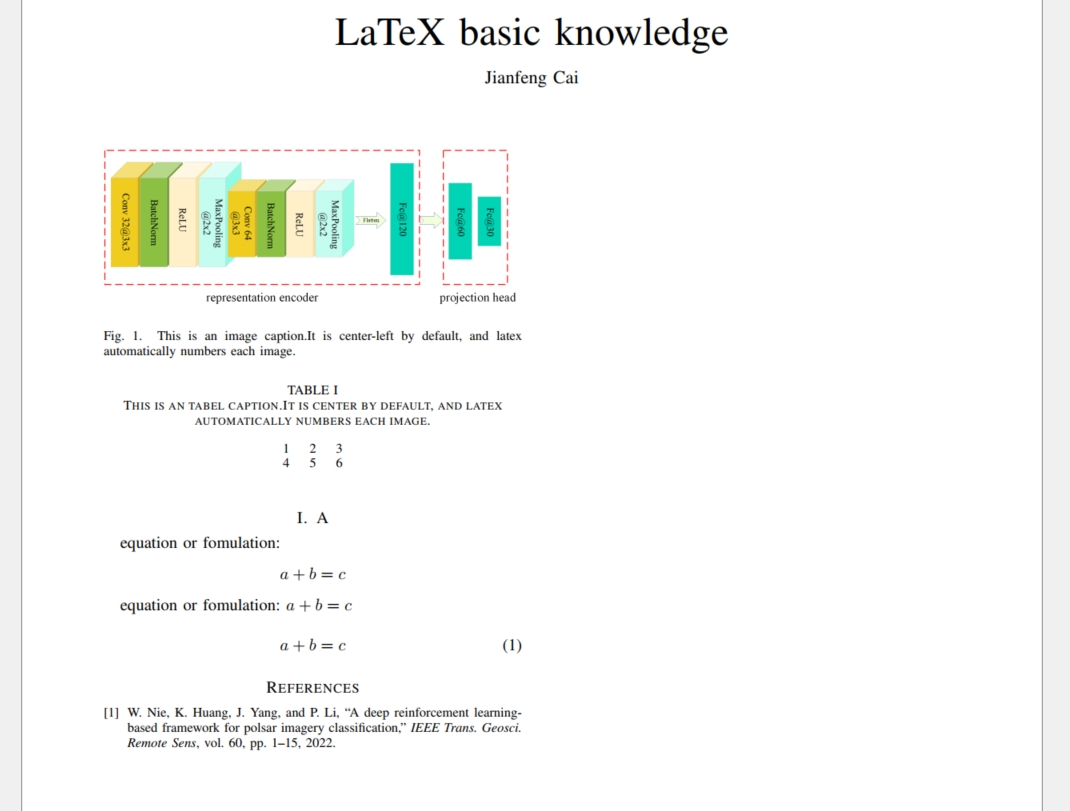
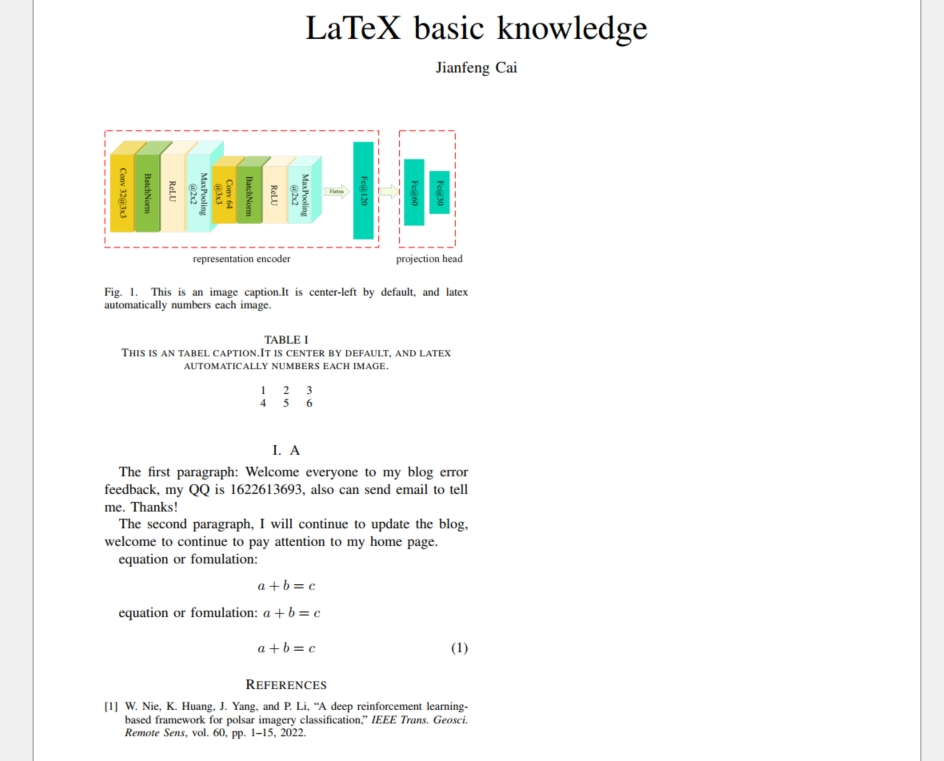
update blog latex

diff --git a/_posts/2023-10-22-blog-latex-basic.md b/_posts/2023-10-22-blog-latex-basic.md
@@ -47,7 +47,7 @@ Basic Application
 </pre>
 
 <p style="text-align:justify; text-justify:inter-ideograph;">对内容进行包裹。所有需要在论文中展示出来的部分都必须写在这里面。
-一篇论文中主要包括了标题、作者、章节、图表、公式、参考文献。下面将一一讲解它们的使用方式。</p>
+一篇论文中主要包括了标题、作者、章节、正文、图表、公式、参考文献。下面将一一讲解它们的使用方式。</p>
 
 <p style="text-align:justify; text-justify:inter-ideograph;">首先是标题，它使用代码函数 \title{标题}，而作者使用 \author{作者名}。
 在代码函数填写的内容中(即 {} 里的内容)，如果有多个需要填写，一般使用 , 分隔，例如对于多个作者，则使用 \author{作者名1, 作者名2, ...}。
@@ -64,7 +64,19 @@ Basic Application
 \cite{la}
 </pre>
 
-<p style="text-align:justify; text-justify:inter-ideograph;">接着是图表，想要在 LaTeX 中插入图片，需要引入宏包 \usepackage{graphicx}，接着便可使用如下代码函数进行图片插入：</p>
+<p style="text-align:justify; text-justify:inter-ideograph;">接着是正文，正文可以直接在 代码函数 document 包裹的区域中书写。同时无需自己加入空格来保持缩进，LaTeX 默认会进行每段的首行缩进。
+相邻的上下两行在编译时仍然会被 LaTeX 视为同一段(即 LaTeX 编译时会忽略两行之间的回车)，而需要另起一段的方式是使用一行相隔，即使用一个空白行表示分段：</p>
+
+<pre>
+第一段
+
+第二段
+</pre>
+
+<p style="text-align:justify; text-justify:inter-ideograph;">这样编译出来就是两个段落。在正文部分，多余的空格、回车等等都会被自动忽略，这保证了全文排版时不会突然多出一行或者多出一个空格(例如在两段之间加入 3 个空白行也只会被当作 1 个)。
+另外，另起一页的方式是使用代码函数 \newpage。</p>
+
+<p style="text-align:justify; text-justify:inter-ideograph;">然后是图表，想要在 LaTeX 中插入图片，需要引入宏包 \usepackage{graphicx}，接着便可使用如下代码函数进行图片插入：</p>
 
 <pre>
 \begin{figure}  -插入图片代码函数: figure 表示插入一栏(对于两栏的论文而言), figure* 表示插入两栏
@@ -89,7 +101,7 @@ Basic Application
 \end{table}
 </pre>
 
-<p style="text-align:justify; text-justify:inter-ideograph;">然后是公式，公式的编写格式和 markdown 非常相似，其中：</p>
+<p style="text-align:justify; text-justify:inter-ideograph;">再然后是公式，公式的编写格式和 markdown 非常相似，其中：</p>
 
 <pre>
 $
@@ -141,7 +153,7 @@ $$
 
 Code Demo
 ===
-<p style="text-align:justify; text-justify:inter-ideograph;">最后，对上面所有的内容集成到一个 `test.tex` 文件中，并展示其编译后的 pdf 文件内容形式。其中， `test.tex` 文件中的内容如下：</p>
+<p style="text-align:justify; text-justify:inter-ideograph;">最后，对上面所有的内容集成到一个 `test.tex` 文件中(除了 \newpage)，并展示其编译后的 pdf 文件内容形式。其中， `test.tex` 文件中的内容如下：</p>
 
 <pre>
 \documentclass[lettersize,journal]{IEEEtran}
@@ -211,3 +223,7 @@ $
 <p style="text-align:justify; text-justify:inter-ideograph;">编译器使用 PDFLaTeX，最终编译生成的 PDF 文件内容如下：</p>
 
 ![demo](/images/latex_basic_application.png)
+
+<p style="text-align:justify; text-justify:inter-ideograph;">可以看到，图片和表格并没有按照我们给定的顺序插入到文章中，而是经过了 LaTeX 内部的算法来确定最合适的位置进行插入。
+这一方面省去了我们对每张图片/每个表格进行排版的麻烦，但另一方面，它也不能百分比满足我们的对图片/表格的排版要求
+(例如在编译生成的文件中，你有时候会看到一个很合适的图片/表格排版方式，但是 LaTeX 死活就是不那么排，即便你加了很多约束)。</p>
